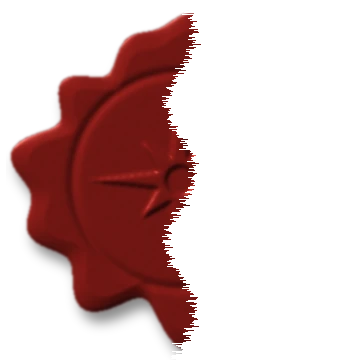
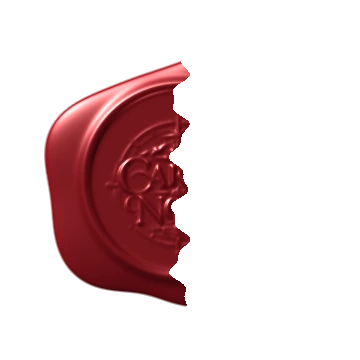
Envelope realista no site e no vídeo promocional
- camadas exportadas por tools/envelopes/realista.py: costas, frente com dobras, aba (frente e verso), folha, papel e lacre com o emblema em relevo (inteiro e metades)
- leitura, cartões do Átrio e Acervo usam as novas camadas; regras antigas do selo e da sombra neutralizadas
- vídeo promocional: cena da carta com o envelope realista
- cache 0.9.0 e pacote offline com as novas imagens

Claude-Session: https://claude.ai/code/session_01RWAY5o26qBfpTho6qZubx1

Changed region(s): [[0.0, 0.0306, 0.55, 0.9778], [0.2444, 0.55, 0.275, 0.6111], [0.3667, 0.3667, 0.3972, 0.3972]]

diff --git a/src/main.js b/src/main.js
@@ -355,7 +355,7 @@ async function modifyPref(pref,value){if(!['theme','font','size','line','width',
 async function exportData(){const value={schema:'cartas-do-norte-leitor',version:1,exportedAt:new Date().toISOString(),prefs:S.prefs,progress:S.progress,marks:S.marks,discovered:S.discovered,log:S.log,places:S.places,letters:S.letters};const blob=new Blob([JSON.stringify(value,null,2)],{type:'application/json'});const url=URL.createObjectURL(blob);const a=document.createElement('a');a.href=url;a.download='cartas-do-norte-meu-arquivo.json';document.body.append(a);a.click();a.remove();setTimeout(()=>URL.revokeObjectURL(url),12000);toast('Arquivo de leitura exportado.')}
 async function importData(file){if(!file)return;try{if(file.size>8e6)throw Error('O arquivo é grande demais.');const obj=JSON.parse(await file.text());if(obj.schema!=='cartas-do-norte-leitor'||obj.version!==1||!Array.isArray(obj.marks)||!obj.prefs||!obj.progress||!Array.isArray(obj.discovered))throw Error('Formato de backup incompatível.');if(!entry(obj.progress.current))throw Error('Progresso sem entrada válida.');S.prefs={...S.prefs,...obj.prefs};S.progress={...S.progress,...obj.progress};S.marks=obj.marks.filter(m=>m.id&&m.section&&entry(m.section)).slice(0,20000);S.discovered=obj.discovered.filter(v=>C.artifacts.some(a=>a.id===v));S.log=obj.log&&typeof obj.log==='object'?obj.log:{};S.letters=Array.isArray(obj.letters)?obj.letters.filter(x=>LETTERS.some(l=>l.id===x)):[];S.places=obj.places&&typeof obj.places==='object'?obj.places:{};await db.reset();await Promise.all([savePrefs(),saveProgress(),saveDiscovered(),saveLetters()]);for(const m of S.marks)await db.put(m.id,m,'marks');toast('Arquivo pessoal restaurado.');render()}catch(e){toast('Não foi possível importar: '+e.message)}}
 async function prepareOffline(kind){const status=document.querySelector('#offline-status');if(!('caches' in window)||!('serviceWorker' in navigator)){if(status)status.textContent='Este navegador não oferece preparação offline segura neste contexto. Use HTTPS ou localhost.';return}
- const files=kind==='text'?['/','/index.html','/src/motion.js','/src/main.js','/src/scene.js','/src/panzoom.js','/src/ui.css','/content/places.json','/content/people.json','/content/plates.json','/assets/experience/letter-paper.webp','/content/letters.json','/assets/fonts/charis.woff2','/assets/fonts/charis-italic.woff2','/assets/fonts/pinyon-script.woff2','/assets/experience/wax-seal.webp','/assets/experience/wax-seal-l.webp','/assets/experience/wax-seal-r.webp','/assets/experience/paper-top.webp','/assets/experience/paper-mid.webp','/assets/experience/paper-bot.webp','/assets/fonts/newsreader.woff2','/assets/fonts/newsreader-italic.woff2','/assets/fonts/cormorant-400.woff2','/assets/fonts/cormorant-400-italic.woff2','/assets/fonts/cormorant-500.woff2','/assets/fonts/cormorant-600.woff2','/src/ambience.js','/src/db.js','/src/content.js','/content/catalog.json','/manifest.webmanifest',...C.reading.map(x=>`/content/reading/${x.id}.json`)]:['/assets/branding/cover.webp','/assets/experience/archive-frontispiece.webp','/assets/experience/edition-paper.webp','/assets/branding/compass.webp','/assets/branding/cartographic-frontispiece.webp','/assets/branding/part1.webp','/assets/branding/lighthouse.webp','/assets/video/trailer.mp4','/assets/video/trailer-poster.webp','/assets/video/trailer-band.webp','/assets/video/trailer.vtt','/assets/experience/mist.webp',...[1,2,3,4].map(n=>`/assets/branding/part${n}.webp`),...C.artifacts.map(x=>`/content/artifacts/${x.id}.json`),'/assets/audio/mar.ogg','/assets/audio/chuva.ogg','/assets/audio/vento.ogg','/assets/audio/graca.ogg',...C.reading.filter(x=>x.art).map(x=>x.art),...C.artifacts.flatMap(x=>[x.image,x.thumbnail])];
+ const files=kind==='text'?['/','/index.html','/src/motion.js','/src/main.js','/src/scene.js','/src/panzoom.js','/src/ui.css','/content/places.json','/content/people.json','/content/plates.json','/assets/experience/letter-paper.webp','/content/letters.json','/assets/fonts/charis.woff2','/assets/fonts/charis-italic.woff2','/assets/fonts/pinyon-script.woff2','/assets/experience/wax-seal.webp','/assets/experience/env-back.webp','/assets/experience/env-front.webp','/assets/experience/env-flap.webp','/assets/experience/env-flap-in.webp','/assets/experience/env-letter.webp','/assets/experience/env-paper.webp','/assets/experience/wax-seal-l.webp','/assets/experience/wax-seal-r.webp','/assets/experience/paper-top.webp','/assets/experience/paper-mid.webp','/assets/experience/paper-bot.webp','/assets/fonts/newsreader.woff2','/assets/fonts/newsreader-italic.woff2','/assets/fonts/cormorant-400.woff2','/assets/fonts/cormorant-400-italic.woff2','/assets/fonts/cormorant-500.woff2','/assets/fonts/cormorant-600.woff2','/src/ambience.js','/src/db.js','/src/content.js','/content/catalog.json','/manifest.webmanifest',...C.reading.map(x=>`/content/reading/${x.id}.json`)]:['/assets/branding/cover.webp','/assets/experience/archive-frontispiece.webp','/assets/experience/edition-paper.webp','/assets/branding/compass.webp','/assets/branding/cartographic-frontispiece.webp','/assets/branding/part1.webp','/assets/branding/lighthouse.webp','/assets/video/trailer.mp4','/assets/video/trailer-poster.webp','/assets/video/trailer-band.webp','/assets/video/trailer.vtt','/assets/experience/mist.webp',...[1,2,3,4].map(n=>`/assets/branding/part${n}.webp`),...C.artifacts.map(x=>`/content/artifacts/${x.id}.json`),'/assets/audio/mar.ogg','/assets/audio/chuva.ogg','/assets/audio/vento.ogg','/assets/audio/graca.ogg',...C.reading.filter(x=>x.art).map(x=>x.art),...C.artifacts.flatMap(x=>[x.image,x.thumbnail])];
  try{const cache=await caches.open('arquivo-vivo-offline-v1');for(let i=0;i<files.length;i++){const r=await fetch(files[i]);if(!r.ok)throw Error('Falha ao baixar '+files[i]);await cache.put(files[i],r);if(status)status.textContent=`Preparando ${kind==='text'?'textos':'imagens e sons'}: ${i+1} de ${files.length} arquivos.`}if(status)status.textContent=`${files.length} recursos armazenados. A leitura offline está preparada neste dispositivo.`;toast('Preparação offline concluída.')}catch(e){if(status)status.textContent='Não foi possível concluir: '+e.message;toast('Download offline incompleto. Tente novamente.')}}
 async function deletePersonal(){showModal('Excluir dados locais?',`<p>Esta ação apagará marcadores, destaques, anotações, descobertas e progresso deste navegador. O romance continuará disponível.</p><div class="dialog-actions"><button class="button button-outline" data-action="close-modal">Cancelar</button><button class="button button-primary" data-action="confirm-delete">Excluir definitivamente</button></div>`)}
 async function processAction(action,element){

diff --git a/tools/promo/promo.html b/tools/promo/promo.html
@@ -38,16 +38,16 @@ html,body{background:var(--deep);overflow:hidden}
  -webkit-mask:url('/assets/branding/emblem-gold.webp') center/100% 100%;mask:url('/assets/branding/emblem-gold.webp') center/100% 100%;mix-blend-mode:screen;opacity:0}
 #logoglow{border-radius:50%;background:radial-gradient(circle,#e2c58c40 0%,#c69a521c 38%,transparent 70%)}
 /* 2 · carta */
-#env{width:calc(640*var(--u));height:calc(420*var(--u));perspective:calc(1600*var(--u))}
-#env .body{position:absolute;inset:0;background:#efe3c9 url('/assets/experience/letter-paper.webp') center/cover;box-shadow:0 calc(40*var(--u)) calc(70*var(--u)) calc(-30*var(--u)) #000c;border-radius:calc(3*var(--u))}
-#env .pocket{position:absolute;inset:0;background:url('/assets/experience/letter-paper.webp') center/cover;filter:brightness(.93) sepia(.15);clip-path:polygon(0 100%,0 38%,50% 74%,100% 38%,100% 100%);z-index:3}
-#env .flap{position:absolute;left:0;right:0;top:0;height:62%;transform-origin:50% 0;z-index:4;transform-style:preserve-3d}
-#env .flap i{position:absolute;inset:0;background:url('/assets/experience/letter-paper.webp') center/cover;filter:brightness(.88) sepia(.2);clip-path:polygon(0 0,100% 0,50% 100%);backface-visibility:hidden}
-#env .flap b{position:absolute;inset:0;background:#d9caa9;clip-path:polygon(0 0,100% 0,50% 100%);transform:rotateX(180deg);backface-visibility:hidden}
-#env .paper{position:absolute;left:6%;right:6%;top:8%;height:86%;background:#f6eedc url('/assets/experience/letter-paper.webp') center/cover;opacity:0;z-index:2;padding:calc(40*var(--u)) calc(44*var(--u));box-shadow:0 2px 10px #0003}
+#env{width:calc(640*var(--u));height:calc(418*var(--u));perspective:calc(1600*var(--u))}
+#env .body{position:absolute;inset:0;background:url('/assets/experience/env-back.webp') center/100% 100%;box-shadow:0 calc(40*var(--u)) calc(70*var(--u)) calc(-30*var(--u)) #000c;border-radius:calc(3*var(--u))}
+#env .pocket{position:absolute;inset:0;background:url('/assets/experience/env-front.webp') center/100% 100% no-repeat;z-index:3}
+#env .flap{position:absolute;left:0;right:0;top:0;height:58.3%;transform-origin:50% 0;z-index:4;transform-style:preserve-3d}
+#env .flap i{position:absolute;inset:0;background:url('/assets/experience/env-flap.webp') top/100% 100% no-repeat;filter:drop-shadow(0 calc(5*var(--u)) calc(4*var(--u)) #0000003a);backface-visibility:hidden}
+#env .flap b{position:absolute;inset:0;background:url('/assets/experience/env-flap-in.webp') top/100% 100% no-repeat;transform:rotateX(180deg);backface-visibility:hidden}
+#env .paper{position:absolute;left:5%;right:5%;top:5%;height:92%;background:url('/assets/experience/env-letter.webp') center/100% 100%;opacity:0;z-index:2;padding:calc(40*var(--u)) calc(44*var(--u));box-shadow:0 2px 10px #0003}
 #env .paper p{font:400 calc(54*var(--u)) 'Pinyon',cursive;color:#3a2a17}
 #env .paper hr{border:0;border-top:1px solid #8a6a4355;margin:calc(26*var(--u)) 0}
-.seal{position:absolute;width:calc(150*var(--u));height:calc(150*var(--u));z-index:6}
+.seal{position:absolute;width:calc(200*var(--u));height:calc(200*var(--u));z-index:6;filter:drop-shadow(0 calc(4*var(--u)) calc(4*var(--u)) #0006)}
 .seal img{width:100%;height:100%;display:block}
 #ring{position:absolute;width:calc(150*var(--u));height:calc(150*var(--u));border:calc(2*var(--u)) solid var(--gold-hi);border-radius:50%;z-index:5;opacity:0}
 #count{font:400 calc(290*var(--u))/.9 'Brand','Corm',serif;color:var(--gold-hi)}
@@ -275,7 +275,7 @@ window.render=function(t){
   const ein=eo5(seg(t,t0-.2,t0+1.0));
   place($('env'),ex,ey+(1-ein)*260,{r:lerp(-7,0,ein),o:1,s:ES});
   // lacre: carimbo aos 1,3 s da cena; quebra e abertura no fim
-  const sx=ex,sy=ey+(-420*.5+420*.62-4)*ES+(1-ein)*260, st=t0+1.3, sp=seg(t,st,st+.22), brk=seg(t,t0+3.45,t0+4.05);
+  const sx=ex,sy=ey+(-418*.5+418*.575)*ES+(1-ein)*260, st=t0+1.3, sp=seg(t,st,st+.22), brk=seg(t,t0+3.45,t0+4.05);
   place($('seal'),sx,sy,{s:(t<st?1.8:lerp(1.8,1,eo(sp)))*ES,o:t<st?0:(brk>0?0:1)});
   const rp=seg(t,st+.15,st+.85);place($('ring'),sx,sy,{s:(1+rp*1.5)*ES,o:rp>0&&rp<1?(1-rp)*.9:0});
   place($('sealL'),sx-eo(brk)*60*ES,sy+eo(brk)*40*ES,{s:ES,r:-eo(brk)*30,o:brk>0?1-seg(t,t0+3.8,t0+4.3):0});

diff --git a/src/ui.css b/src/ui.css
@@ -811,7 +811,7 @@ html:not(.can-animate) .l4{margin-top:10px}html:not(.can-animate) .act-light .ac
 .wax:hover,.wax:focus-visible{transform:translate(-50%,-50%) scale(1.06) rotate(-4deg)}
 .wax:focus-visible{outline-offset:6px}
 .can-animate .envelope-stage .wax{animation:waxpulse 2.6s ease-in-out infinite}
-@keyframes waxpulse{0%,100%{filter:drop-shadow(0 0 0 #ffcf8a00)}50%{filter:drop-shadow(0 0 14px #ffcf8a88)}}
+@keyframes waxpulse{0%,100%{filter:drop-shadow(0 3px 3px #0005)}50%{filter:drop-shadow(0 3px 3px #0005) drop-shadow(0 0 12px #ffcf8a77)}}
 .env-hint{margin:0;font:600 10px var(--sans);letter-spacing:.2em;text-transform:uppercase;color:var(--r-soft,#9b8f78)}
 .is-opening .wax{animation:none;pointer-events:none}
 .is-opening .wax-l{transform:translate(-46px,30px) rotate(-38deg);opacity:0}
@@ -876,3 +876,20 @@ body.is-reading .ambient-panel{top:64px;bottom:auto}
 @keyframes breathe-soft{from{transform:scale(1)}to{transform:scale(1.012)}}
 .living.is-live img,.plate.is-live img,.part-plate.is-live img{animation-name:breathe-soft}
 .reader-text p:first-of-type{display:flow-root}
+/* v0.16 · envelope realista (camadas de tools/envelopes/realista.py) */
+.envelope{aspect-ratio:720/470;box-shadow:none;background:none;filter:drop-shadow(0 14px 16px #2a1a0a3d)}
+.env-back{background:url('/assets/experience/env-back.webp') center/100% 100%;box-shadow:none}
+.env-letter{background:url('/assets/experience/env-letter.webp') center/100% 100%;box-shadow:0 1px 4px #0003}
+.env-front{background:url('/assets/experience/env-front.webp') center/100% 100% no-repeat;clip-path:none;box-shadow:none}
+.env-front::before{display:none}
+.envelope .env-flap{height:58.3%;background:none;clip-path:none;box-shadow:none;filter:none;transform-style:preserve-3d}
+.envelope .env-flap::before,.envelope .env-flap::after{content:"";position:absolute;inset:0;background:url('/assets/experience/env-flap.webp') top/100% 100% no-repeat;backface-visibility:hidden;-webkit-backface-visibility:hidden}
+.envelope .env-flap::before{filter:drop-shadow(0 5px 4px #0000002e)}
+.envelope .env-flap::after{background-image:url('/assets/experience/env-flap-in.webp');transform:rotateX(180deg)}
+.envelope .wax{top:57.5%;width:31%;height:auto;aspect-ratio:1;margin:0;border-radius:0;background:none;box-shadow:none;padding:0;border:0}
+.envelope .wax b{display:none}
+.envelope-card .env-paper{background:#e9dcc2 url('/assets/experience/env-paper.webp') center/cover;box-shadow:0 30px 50px -28px #000}
+.envelope-card .env-flap{height:46%;z-index:1;background:url('/assets/experience/env-flap.webp') top/100% 100% no-repeat;clip-path:none;box-shadow:none;filter:drop-shadow(0 5px 4px #0003);transition:transform .7s var(--ease-cine)}
+.envelope-card .env-seal{width:92px;height:92px;margin:-46px;border-radius:0;background:url('/assets/experience/wax-seal.webp') center/contain no-repeat;box-shadow:none;font-size:0;color:transparent}
+.corr-paper{background:#e6d6b5 url('/assets/experience/env-paper.webp') center/cover}
+.corr-seal{width:70px;height:70px;right:8px;top:4px}

diff --git a/sw.js b/sw.js
@@ -1,5 +1,5 @@
 /* Arquivo Vivo 0.5 — shell offline e cache de recursos canônicos e mídias opcionais. */
-const VERSION='av-shell-0.8.1';
+const VERSION='av-shell-0.9.0';
 const OFFLINE='arquivo-vivo-offline-v1';
 const BASE=['/','/index.html','/src/main.js','/src/db.js','/src/content.js','/src/ambience.js','/src/motion.js','/src/scene.js','/src/panzoom.js','/src/ui.css','/content/places.json','/content/letters.json','/assets/fonts/charis.woff2','/assets/fonts/charis-italic.woff2','/assets/fonts/pinyon-script.woff2','/assets/experience/wax-seal.webp','/assets/experience/wax-seal-l.webp','/assets/experience/wax-seal-r.webp','/assets/experience/paper-top.webp','/assets/experience/paper-mid.webp','/assets/experience/paper-bot.webp','/content/people.json','/content/plates.json','/assets/experience/letter-paper.webp','/assets/fonts/newsreader.woff2','/assets/fonts/newsreader-italic.woff2','/assets/fonts/cormorant-400.woff2','/assets/fonts/cormorant-400-italic.woff2','/assets/fonts/cormorant-500.woff2','/assets/fonts/cormorant-600.woff2','/assets/experience/mist.webp','/assets/fonts/cartas-display.woff2','/assets/branding/emblem-gold.webp','/assets/branding/emblem-navy.webp','/content/migration-v4.json','/manifest.webmanifest','/content/catalog.json','/assets/branding/cover.webp','/assets/branding/icon-192.png','/assets/branding/wordmark.svg','/assets/branding/compass.webp','/assets/branding/cartographic-frontispiece.webp','/assets/branding/grain.png','/assets/experience/archive-frontispiece.webp','/assets/experience/edition-paper.webp'];
 self.addEventListener('install',event=>event.waitUntil(caches.open(VERSION).then(cache=>cache.addAll(BASE)).then(()=>self.skipWaiting())));

diff --git a/tools/envelopes/realista.py b/tools/envelopes/realista.py
@@ -5,6 +5,7 @@ lacre de cera com volume e brilho, carimbado com o emblema de Cartas do Norte em
 Uso:  python3 tools/envelopes/realista.py video saida.mp4
       python3 tools/envelopes/realista.py still saida.png [t]
       python3 tools/envelopes/realista.py som efeitos.wav
+      python3 tools/envelopes/realista.py export assets/experience
 """
 import sys, subprocess
 from pathlib import Path
@@ -136,22 +137,23 @@ def desk():
     return np.clip(col * (.5 + .7 * spot[..., None]), 0, 1)
 
 def seal_parts(R=78):
+    k = R / 78
     """Lacre: altura (gota com bordas irregulares, centro achatado pelo sinete, emblema em relevo), luz de Phong."""
     n = 2 * R + 60; c = n / 2; yy, xx = np.mgrid[0:n, 0:n]; ang = np.arctan2(yy - c, xx - c); r = np.hypot(xx - c, yy - c)
     rng = np.random.default_rng(31)
-    bumps = sum(rng.uniform(1.5, 4.5) * np.cos(k * ang + rng.uniform(0, 6)) for k in (2, 3, 5, 7)) + 7 * np.clip(np.cos(ang - 2.2), 0, 1) ** 18 + 5 * np.clip(np.cos(ang + .6), 0, 1) ** 24   # bordas moles e duas escorridas
-    edge = R + bumps - r; m = np.clip(edge / 1.5 + .5, 0, 1)
+    bumps = (sum(rng.uniform(1.5, 4.5) * np.cos(f * ang + rng.uniform(0, 6)) for f in (2, 3, 5, 7)) + 7 * np.clip(np.cos(ang - 2.2), 0, 1) ** 18 + 5 * np.clip(np.cos(ang + .6), 0, 1) ** 24) * k   # bordas moles e duas escorridas
+    edge = R + bumps - r; m = np.clip(edge / (1.5 * k) + .5, 0, 1)
     dome = np.sqrt(np.clip(1 - (r / (R + bumps)) ** 2, 0, 1))
-    hgt = dome * 14
+    hgt = dome * 14 * k
     face = R * .72
     pressed = np.clip((face - r) / 3, 0, 1)
-    hgt = hgt * (1 - pressed) + pressed * 9.5 + np.exp(-((r - face - 3) / 3.5) ** 2) * 3.0        # rebordo empurrado pelo sinete
+    hgt = hgt * (1 - pressed) + pressed * 9.5 * k + np.exp(-((r - face - 3 * k) / (3.5 * k)) ** 2) * 3.0 * k        # rebordo empurrado pelo sinete
     emb = Image.open(ROOT / 'assets/branding/emblem-gold.webp').split()[-1]
     es = int(face * 1.72); emb = emb.resize((int(es * 831 / 898), es), Image.LANCZOS)
     E = np.zeros((n, n)); ex, ey = int(c - emb.size[0] / 2), int(c - emb.size[1] / 2)
     E[ey:ey + emb.size[1], ex:ex + emb.size[0]] = np.asarray(emb) / 255
-    E = ndimage.gaussian_filter(E, .9) * pressed
-    hgt += E * 2.2
+    E = ndimage.gaussian_filter(E, .9 * k) * pressed
+    hgt += E * 2.2 * k
     return None, m, hgt
 
 def light_seal(hgt, m, gloss=1.0, light=LIGHT, base=(118, 14, 22)):
@@ -295,10 +297,40 @@ def sound(out):
     fx = fx / max(1e-9, np.max(np.abs(fx))) * .7
     wavfile.write(out, SR, (fx * 32767).astype(np.int16))
 
+def export(dst):
+    """Camadas para o site e para o vídeo promocional (assets/experience): costas, frente com as dobras, aba (frente e
+    verso), folha, papel para os cartões e o lacre inteiro e em duas metades (mesma tela, para se encaixarem)."""
+    dst = Path(dst); L = build()
+    def save(rgb, a, name, q=90):
+        Image.fromarray((np.dstack([np.clip(rgb, 0, 1), np.clip(a, 0, 1)]) * 255).astype(np.uint8), 'RGBA').save(dst / name, quality=q, method=6)
+    save(L['back'], L['body_a'], 'env-back.webp')
+    # frente: dobras laterais e de baixo com as sombras que projetam
+    rgb = np.zeros((EH, EW, 3)); a = np.zeros((EH, EW))
+    for part, pa, sh in (('side', 'side_a', drop_shadow(L['side_a'], 4, 6, 6, .22)), ('bot', 'bot_a', drop_shadow(L['bot_a'], 3, -5, 6, .25))):
+        a_new = a + sh * (1 - a); rgb = (rgb * a[..., None]) / np.maximum(a_new, 1e-6)[..., None]; a = a_new
+        m = L[pa]; rgb = rgb * (1 - m[..., None]) + L[part] * m[..., None]; a = a * (1 - m) + m
+    save(rgb, a, 'env-front.webp')
+    fr, fa, _ = flap_image(L, 0.0); save(fr, fa, 'env-flap.webp')
+    save(L['flap_in'] * .9, L['flap_a'], 'env-flap-in.webp')
+    lt = paper_sheet(*L['letter_a'].shape, 6, (1.03, 1.03, 1.03), .25); save(lt, L['letter_a'], 'env-letter.webp')
+    save(paper_sheet(800, 600, 7, (1, .99, .97), .7), np.ones((800, 600)), 'env-paper.webp')
+    # lacre em alta: inteiro e metades
+    R = 128; m, hgt = seal_parts(R)[1:]; col = light_seal(hgt, m); n = m.shape[0]; pad = (360 - n) // 2 if n < 360 else 0
+    canvas = lambda x: np.pad(x, ((pad, 360 - n - pad), (pad, 360 - n - pad)) + ((0, 0),) * (x.ndim - 2)) if n < 360 else x
+    C, M = canvas(col), canvas(m)
+    save(C, M, 'wax-seal.webp', 92)
+    k = M.shape[0]; jag = (k / 2 + np.sin(np.arange(k) / 9) * 8 + np.sin(np.arange(k) / 3.7) * 3).astype(int)
+    left = M.copy(); right = M.copy()
+    for y in range(k): left[y, jag[y]:] = 0; right[y, :jag[y]] = 0
+    save(C, left, 'wax-seal-l.webp', 92); save(C, right, 'wax-seal-r.webp', 92)
+    print('ok', dst)
+
 if __name__ == '__main__':
     mode, out = sys.argv[1:3]
     if mode == 'still':
         Image.fromarray(frame(build(), float(sys.argv[3]) if len(sys.argv) > 3 else 3.2)).save(out)
+    elif mode == 'export':
+        export(out)
     elif mode == 'som':
         sound(out)
     else:

diff --git a/CHANGELOG.md b/CHANGELOG.md
@@ -1,5 +1,10 @@
 # Histórico de versões do Arquivo Vivo
 
+## v0.16 · 17 de outubro de 2026 — Envelope realista
+- Novo envelope em todo o site (leitura, cartões das doze cartas no Átrio, Acervo) e no vídeo promocional: papel creme com fibras iluminadas, bordas envelhecidas, dobras com espessura e sombra, aba com frente e verso, e lacre de cera vermelha com o emblema de Cartas do Norte em relevo, que se parte em duas metades.
+- As camadas são geradas por `tools/envelopes/realista.py export assets/experience` (`env-back`, `env-front`, `env-flap`, `env-flap-in`, `env-letter`, `env-paper`, `wax-seal`, `wax-seal-l`, `wax-seal-r`). O mesmo script gera o vídeo de demonstração do envelope sobre a mesa.
+- Estudos em aquarela que não foram adotados ficam em `tools/envelopes/aquarela.py`.
+
 ## v0.15 · 16 de outubro de 2026 — Vídeo promocional em motion graphics
 - `assets/video/promo-30s.mp4` (16:9) e `promo-30s-vertical.mp4` (9:16), 32,6 s, 30 fps: abertura com o emblema se montando em camadas (o aro se desenha, a estrela abre, as montanhas sobem, "CARTAS do NORTE" é escrito, o mar se abre), carta com lacre que carimba, se parte e abre ("Miqueias,"), rota na primeira carta náutica, mosaico de aquarelas com 72 capítulos, 54 aquarelas e 12 cartas, o site no notebook e no celular, emblema e chamada. Cortes no compasso da faixa lofi de Amazing Grace, com a bateria entrando no mosaico; sons de papel e lacre. −14 LUFS. Detalhes e como refazer em `tools/promo/LEIA.md`.
 
